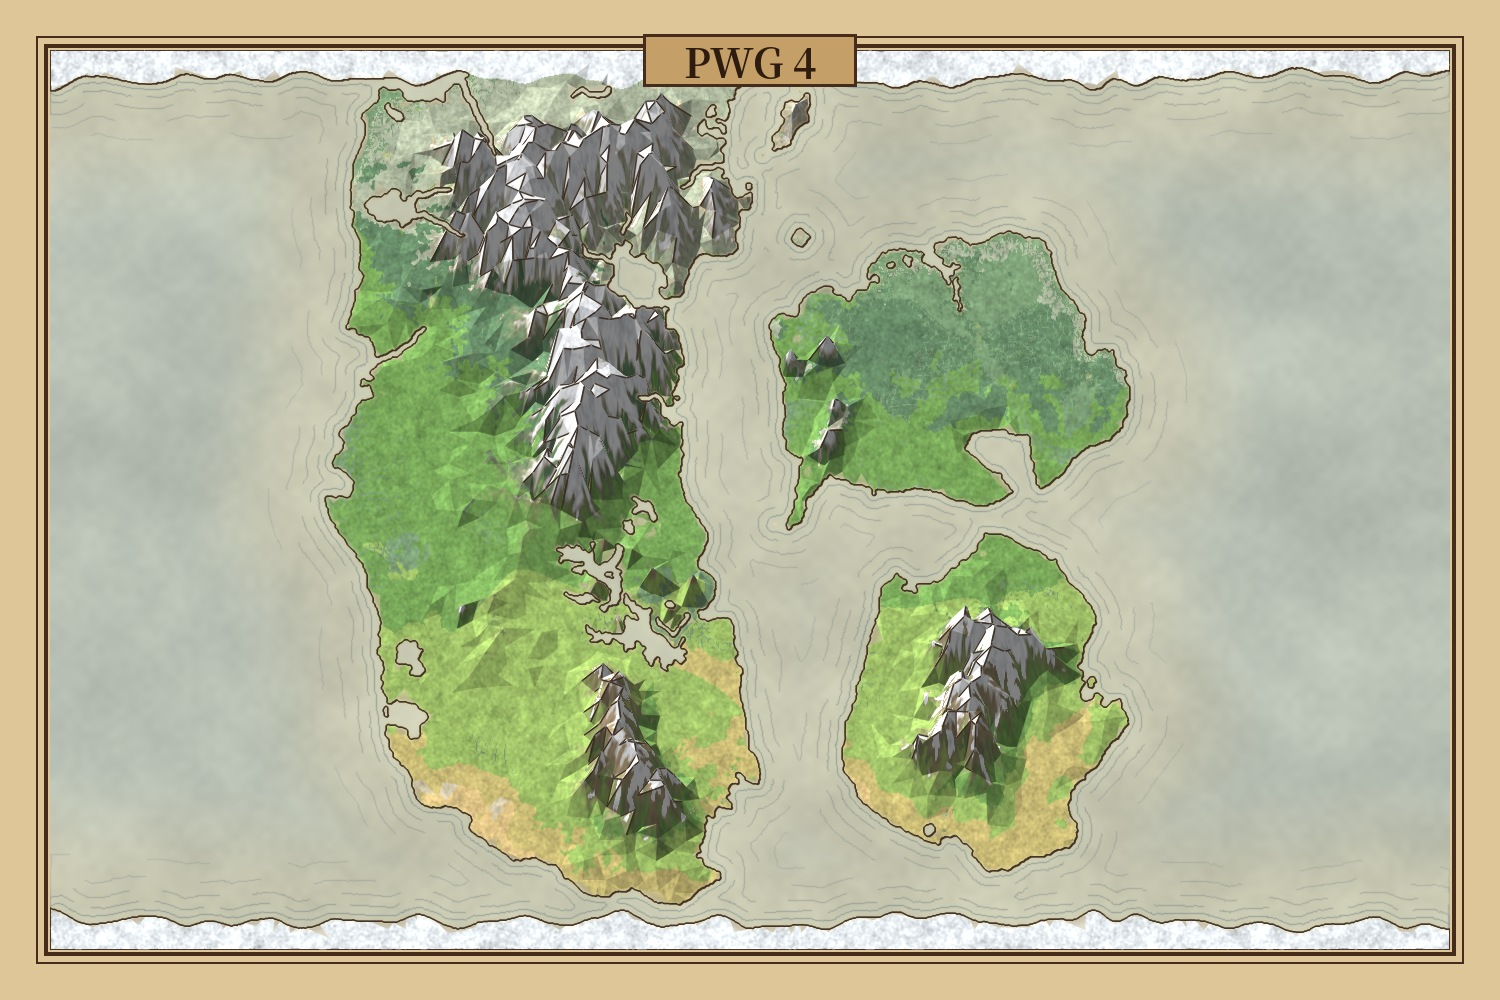
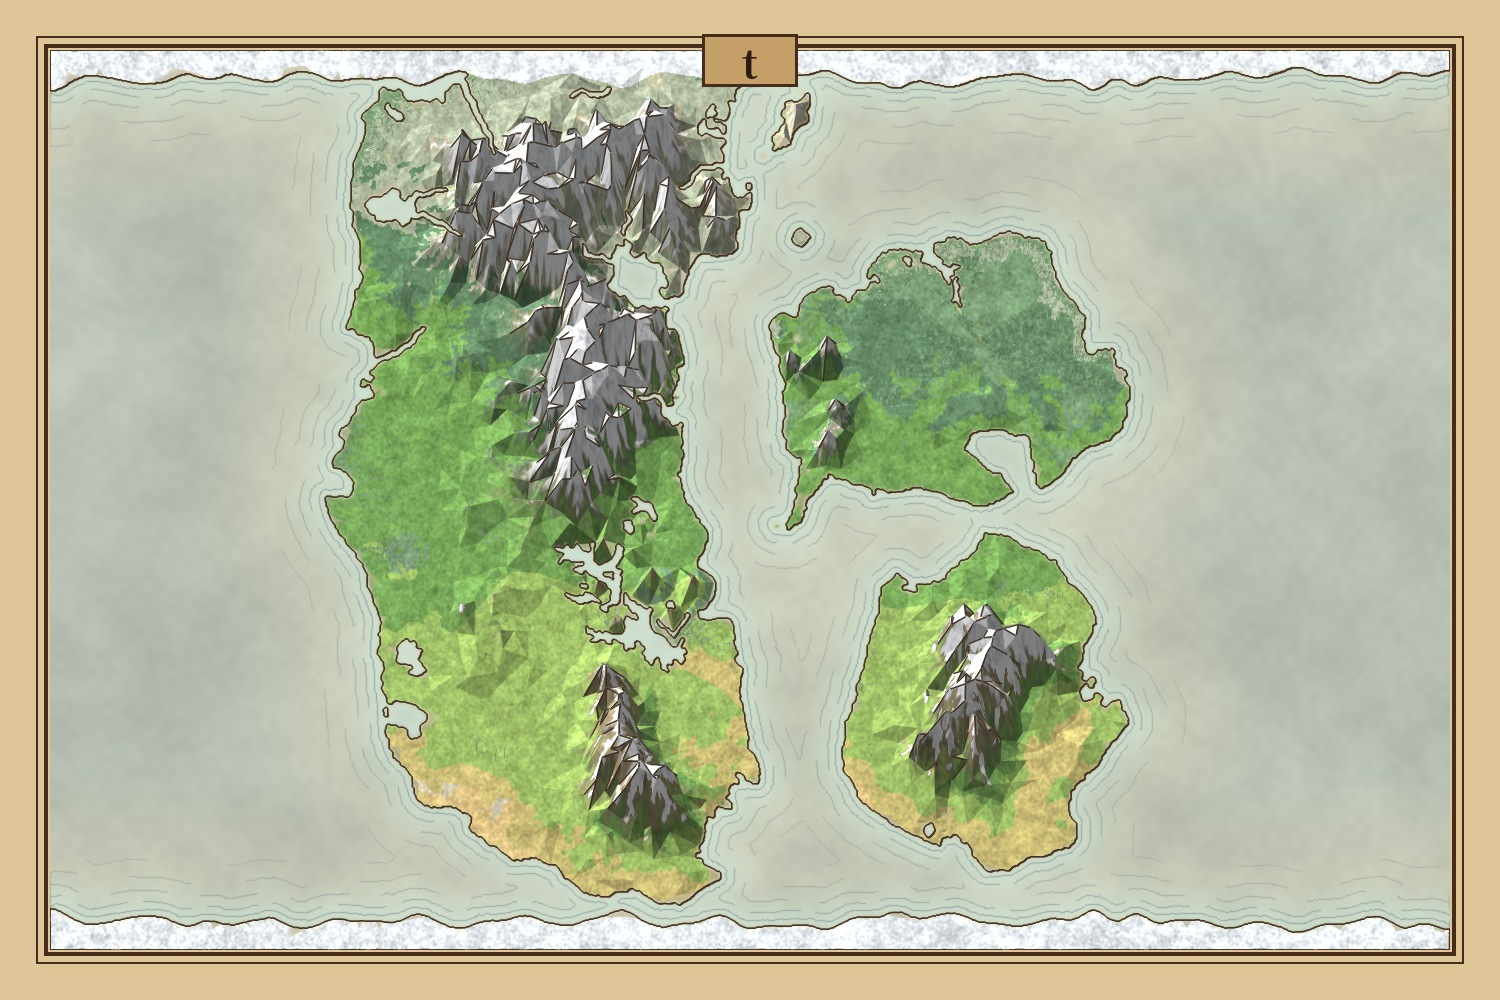
海岸v2: 浅瀬を強める(27%→80%)
Claude-Session: https://claude.ai/code/session_01NNF75WtqSrNc5QxPaYtfZJ

Changed region(s): [[0.0307, 0.031, 0.9813, 0.961]]

diff --git a/docs/apps/fantasy-war/mapstyle45.html b/docs/apps/fantasy-war/mapstyle45.html
@@ -3,7 +3,7 @@
 <h1>海岸線の作り込み(試作v2・11-20)</h1>
 <p><b>概要</b>: 描く順の最初にある海岸線を作り込みました。前の絵の海岸は、①面のぎざぎざがとがって海に出る ②墨の線がちぎれて太さもばらばら ③浅瀬と、岸にそった波線が少ない、という問題がありました。そこで、データの陸の形は保ったまま、<b>整えた海岸線</b>を先に作り、面を海岸でそろえ、墨線・浜・浅瀬・波線を足しました。絵はmapstyle44(粗いローポリ+UV)と同じ設定で、海岸だけ違います。</p>
 <h2>拡大(左=前、右=今回)</h2><img src="mapstyle/gv/lp45_coast_cmp.jpg"><small class="eid" style="display:block;font-size:.85em;font-weight:bold;color:#7a2e1e">絵番号 E001</small>
-<h2>調べたこと(出典)</h2>
+<h2>浅瀬を強めた比較(左=最初、右=強め)</h2><img src="mapstyle/gv/lp45_shallow_cmp.jpg"><h2>調べたこと(出典)</h2>
 <ul><li><a href="https://www.fantasticmaps.com/?p=2195">海岸線の描き方(Fantastic Maps)</a>: 海岸線は「ぎざぎざで不規則」にし、浜のところだけなめらかにする。硬い海岸線は少し太く、波は細く薄く。波は岸に近いほど密に、沖ほど間をあける。ペンを離さず1本の線で描く。</li>
 <li><a href="https://www.fantasticmaps.com/?p=2467">海岸の4つの様式(同)</a>: 「切れた波」(岸に近いほど細かく岸の形にそい、沖ほど長く間があき大きな形だけにそう)/ 深さの等高線風 / さざなみ / 単純な横線。</li>
 <li><a href="https://www.fantasticmaps.com/tag/sea/">昔風の海の描き方(同)</a>: 海岸を濃く太い線で描き、そのまわりに薄い平行線を重ねる。1本目は岸から一定の距離、あとは間を少しずつ広げる。狭い入り江は線を押し込まず、なめらかにしたうえで、入り江の中にはまとまりのない別の波を置く。海岸のまわりに薄い青の水彩を重ねてもよい。</li>
@@ -20,7 +20,7 @@
 <h2>目で見た評価(各1枚)</h2>
 <ul><li>海岸が1本のつながった線になり、とがった出っぱりが消えた。島も小さな点や輪としてそろった。</li>
 <li>岸にそった波線で、陸と海の境がはっきりし、「地図らしく」見える。</li>
-<li>浅瀬と浜は、控えめで、ほとんど目立たない(もう少し強くしてよいかもしれない)。</li>
+<li>浅瀬は最初ほとんど見えなかった(ご指摘 11-20 20:41)。明るさを約27%→約80%、幅を約2倍にして、岸ぞいが明るい青緑で見えるようにした(下の比較)。浜は控えめ。</li>
 <li>内陸の淡い四角い面(湖?)に、海岸と同じ墨の輪郭がつく。四角い形そのものは、データ側の癖で未解決。</li>
 <li>波線は全体に薄く、iPhoneの小さい画面では見えにくいかもしれない。</li></ul>
 <h2>限界・未確認</h2>

diff --git a/docs/apps/fantasy-war/mapstyle/tools/illus.py b/docs/apps/fantasy-war/mapstyle/tools/illus.py
@@ -41,8 +41,9 @@ def main(wdir, outp, title, seed=1):
     img = parch * (1 - k[..., None]) + sea_t * k[..., None] * (0.92 + 0.12 * pn[..., None])
     if coast2:
         # 浅瀬: 岸ぞいを明るい青緑にして、沖へ向かって海の色になじませる(明るさ約27%)
-        sh = np.exp(-dist_w / 16.0)[..., None] * 0.27
-        img = img * (1 - sh) + np.array([196, 222, 208], np.float32) * sh
+        shk = float(os.environ.get('FM_SHALLOW', '0.8')); shd = float(os.environ.get('FM_SHALLOW_D', '30'))
+        sh = np.exp(-dist_w / shd)[..., None] * shk
+        img = img * (1 - sh) + np.array([206, 232, 222], np.float32) * sh
     # --- 陸の水彩(群系ごとの薄い色)
     wash = {1: (232, 205, 140), 2: (214, 202, 170), 3: (206, 198, 126), 4: (176, 204, 126), 5: (150, 186, 108), 6: (150, 192, 112), 7: (120, 172, 108), 8: (132, 176, 124), 9: (128, 160, 122), 10: (190, 200, 184), 11: (240, 244, 248), 12: (150, 186, 160)}
     wl = np.zeros((H0, W0, 3), np.float32); 
